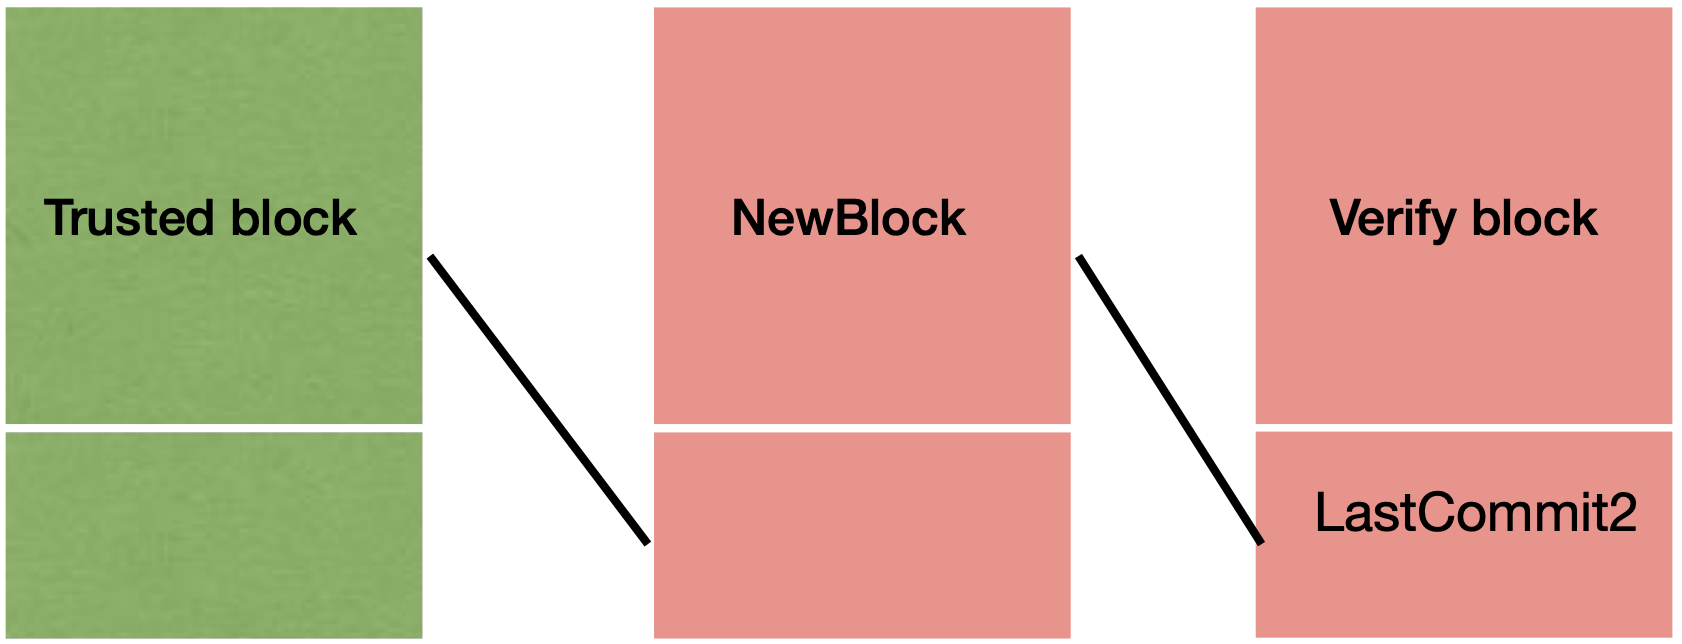
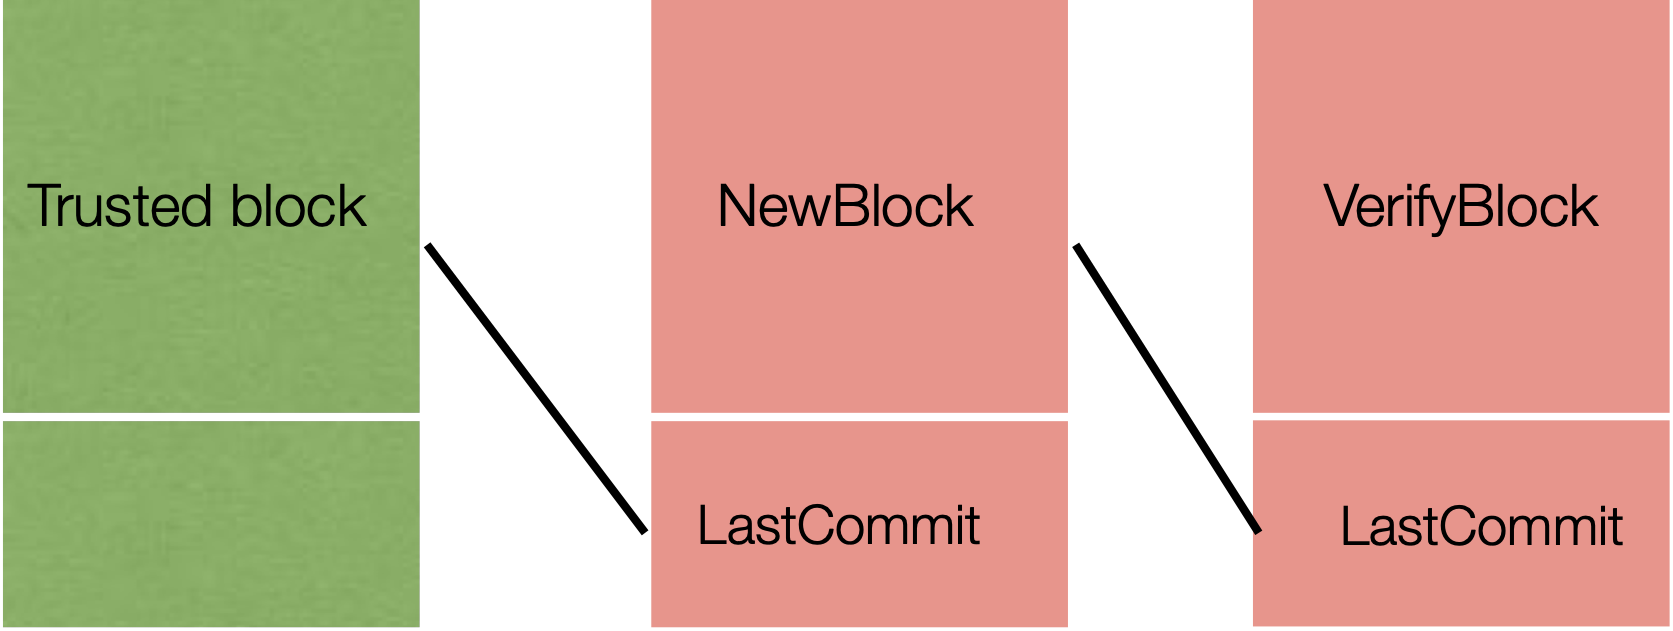
fixed image, minor text fixes

diff --git a/spec/blocksync/verification.md b/spec/blocksync/verification.md
@@ -1,6 +1,6 @@
 ## Block verification
 
-When blocksyncing, a node is not participating in conensus. It is receiving blocks that have already been decided and committed. To avoid being fooled by malicious peers, the node has to verify the received blocks before executing the transactions and storing the block in its store. 
+When blocksyncing, a node is not participating in consensus. It is receiving blocks that have already been decided and committed. To avoid being fooled by malicious peers, the node has to verify the received blocks before executing the transactions and storing the block in its store. 
 
 
 The verification in blocksync aims to apply the same logic as the [light client verification](../light-client/verification/README.md). The safety guarantees of the light client model are provided by verifying blocks starting from an **initial trusted state** and using validators who were bonded within a **trusting period**. Once this period expires, the validators could have unbonded, and we cannot rely on them being honest anymore. In blocksync, we can be **outside** the trusting period. Therefore, the guarantees provided by blocksync verification can be divided in two groups: 
@@ -21,7 +21,7 @@ Currently there are two possible ways to obtain a trusted state :
 
 In this case we only verify that the validator hash of the block matches the validator set resulting from executing `InitChain`. We will use the initially provided validator set for verification and further verify the block against witnesses. In this scenario, this state is very likely to be outside the trusting period. We will accept this block as a trusted state and store it inside the node's block store. 
 
-It is worth noting that, running block sync from the first height is significantly slower than running statesync first. However, statesync does not keep the entire blockchain history and some operators might opt not to state sync. The reason is that, if sufficiently many nodes state sync and other nodes who have historical data fail or leave the network, we have no history.
+It is worth noting that, running block sync from the first height is significantly slower than running statesync first. However, statesync does not keep the entire blockchain history and some operators might opt not to state sync. The reason is that, if sufficiently many nodes state sync and other nodes who have historical data fail or leave the network, the network ends up with gaps in the block history.
 
 **Case 2 - blocksync starting from pre-existing state**
 
@@ -45,7 +45,11 @@ To enable this, upon switching from statesync, we do not instruct the block pool
 
 ### Verifying blocks past the trusted state
 
-<img src="img/bc-reactor-blocks.png" alt="block diagram" title="Block overview" width="80%" name="Block_overview"/>
+<center>
+<img src="img/bc-reactor-blocks.png" alt="block diagram" title="Block overview" width="800px" name="Block_overview" align="center" />
+</center>
+<br/>
+
 
 
 The diagram above shows all blocks at play when verifying block at height ` H + 1` - `newBlock`, where at height `H` we have the trusted block. 
@@ -106,7 +110,7 @@ We have no guarantees on the correctness of the peers we are connected to.
 - Once we replace a peer due to it having timed out or not reporting a correct block, nothing prevents a node from reconnecting to it - *there is no notion of blacklisted peers*.
 - If we connect to a subset of peers, they could feed the node faulty data. Eventually, when the node switches to consensus, it would realize there is something wrong, but then the node itself might be blacklisted.
 - Alternatively, a node that is fed faulty data, could, upon switching to conensus, become part of a light client attack by serving as a faulty witness. 
-- There is no check whether the maximum height reported by peers is true or not. A slow node could report a very distant height to the node - for example 2000, when the blockchain is at height 1000 in fact. This would lead to one part of the condition to switch to consensus never being true. To prevent the node switching due to not advancing, the malicious node sends a new block very slowly. Thus the node progresses but can never participate in consensus. This issue could potentially be mitigated if, instead of taking the maximum height reported by peers, we report the lowest of their maximums. The idea is that peers should be close enough to the top of the chain in any case. 
+- There is no check whether the maximum height reported by peers is true or not. A slow node could report a very distant height to the node - for example 2000, when the blockchain is at height 1000 in fact. This would lead to one part of the condition to switch to consensus never being true. To prevent the node switching due to not advancing, the malicious node sends a new block very slowly. Thus the node progresses but can never participate in consensus. This issue could potentially be mitigated if, instead of taking the maximum height reported by peers, we report the lowest of their maximums. The idea is that peers should be close enough to the top of the chain in any case. But this could also open the node to an attack where they switch to consensus too early. The median would be a good compromise between the two. 
 - A blocksyncing node can flood peers with requests - constantly reporting that it has not synced up. At the moment, the maximum amount of requests received is limited and protects peers to some extent against this attack. 
 
 ## Additional ideas and suggestions
